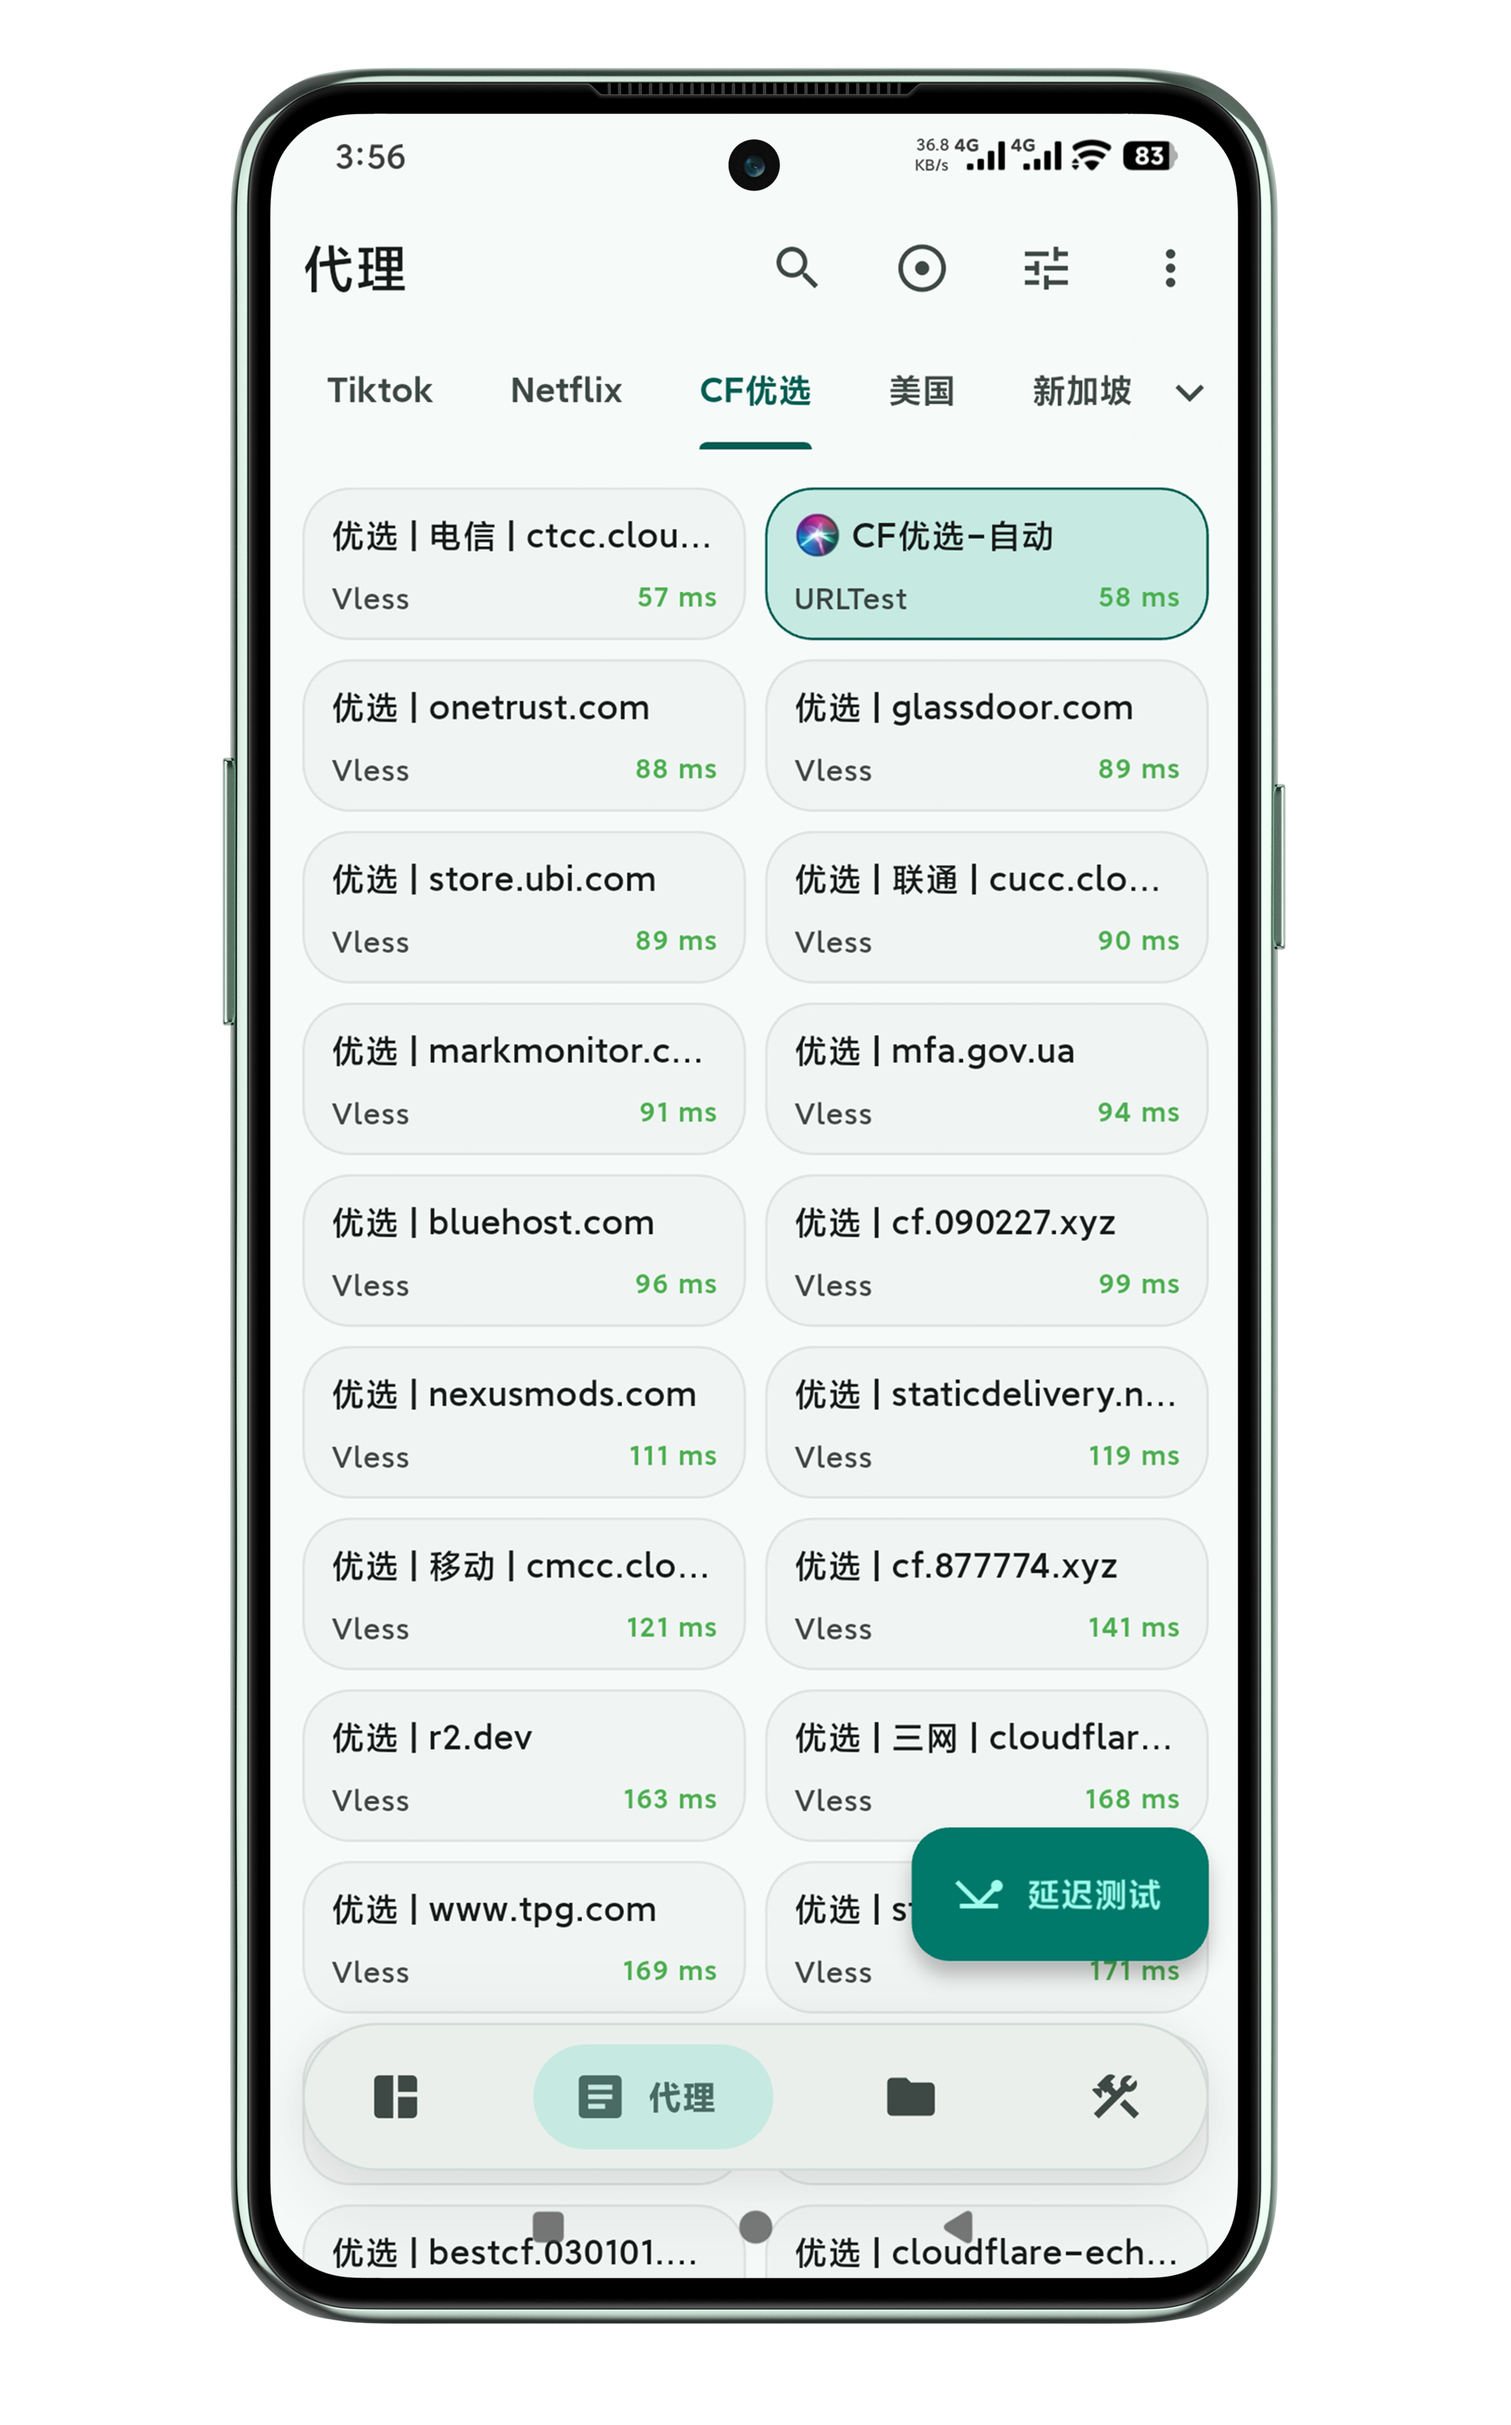
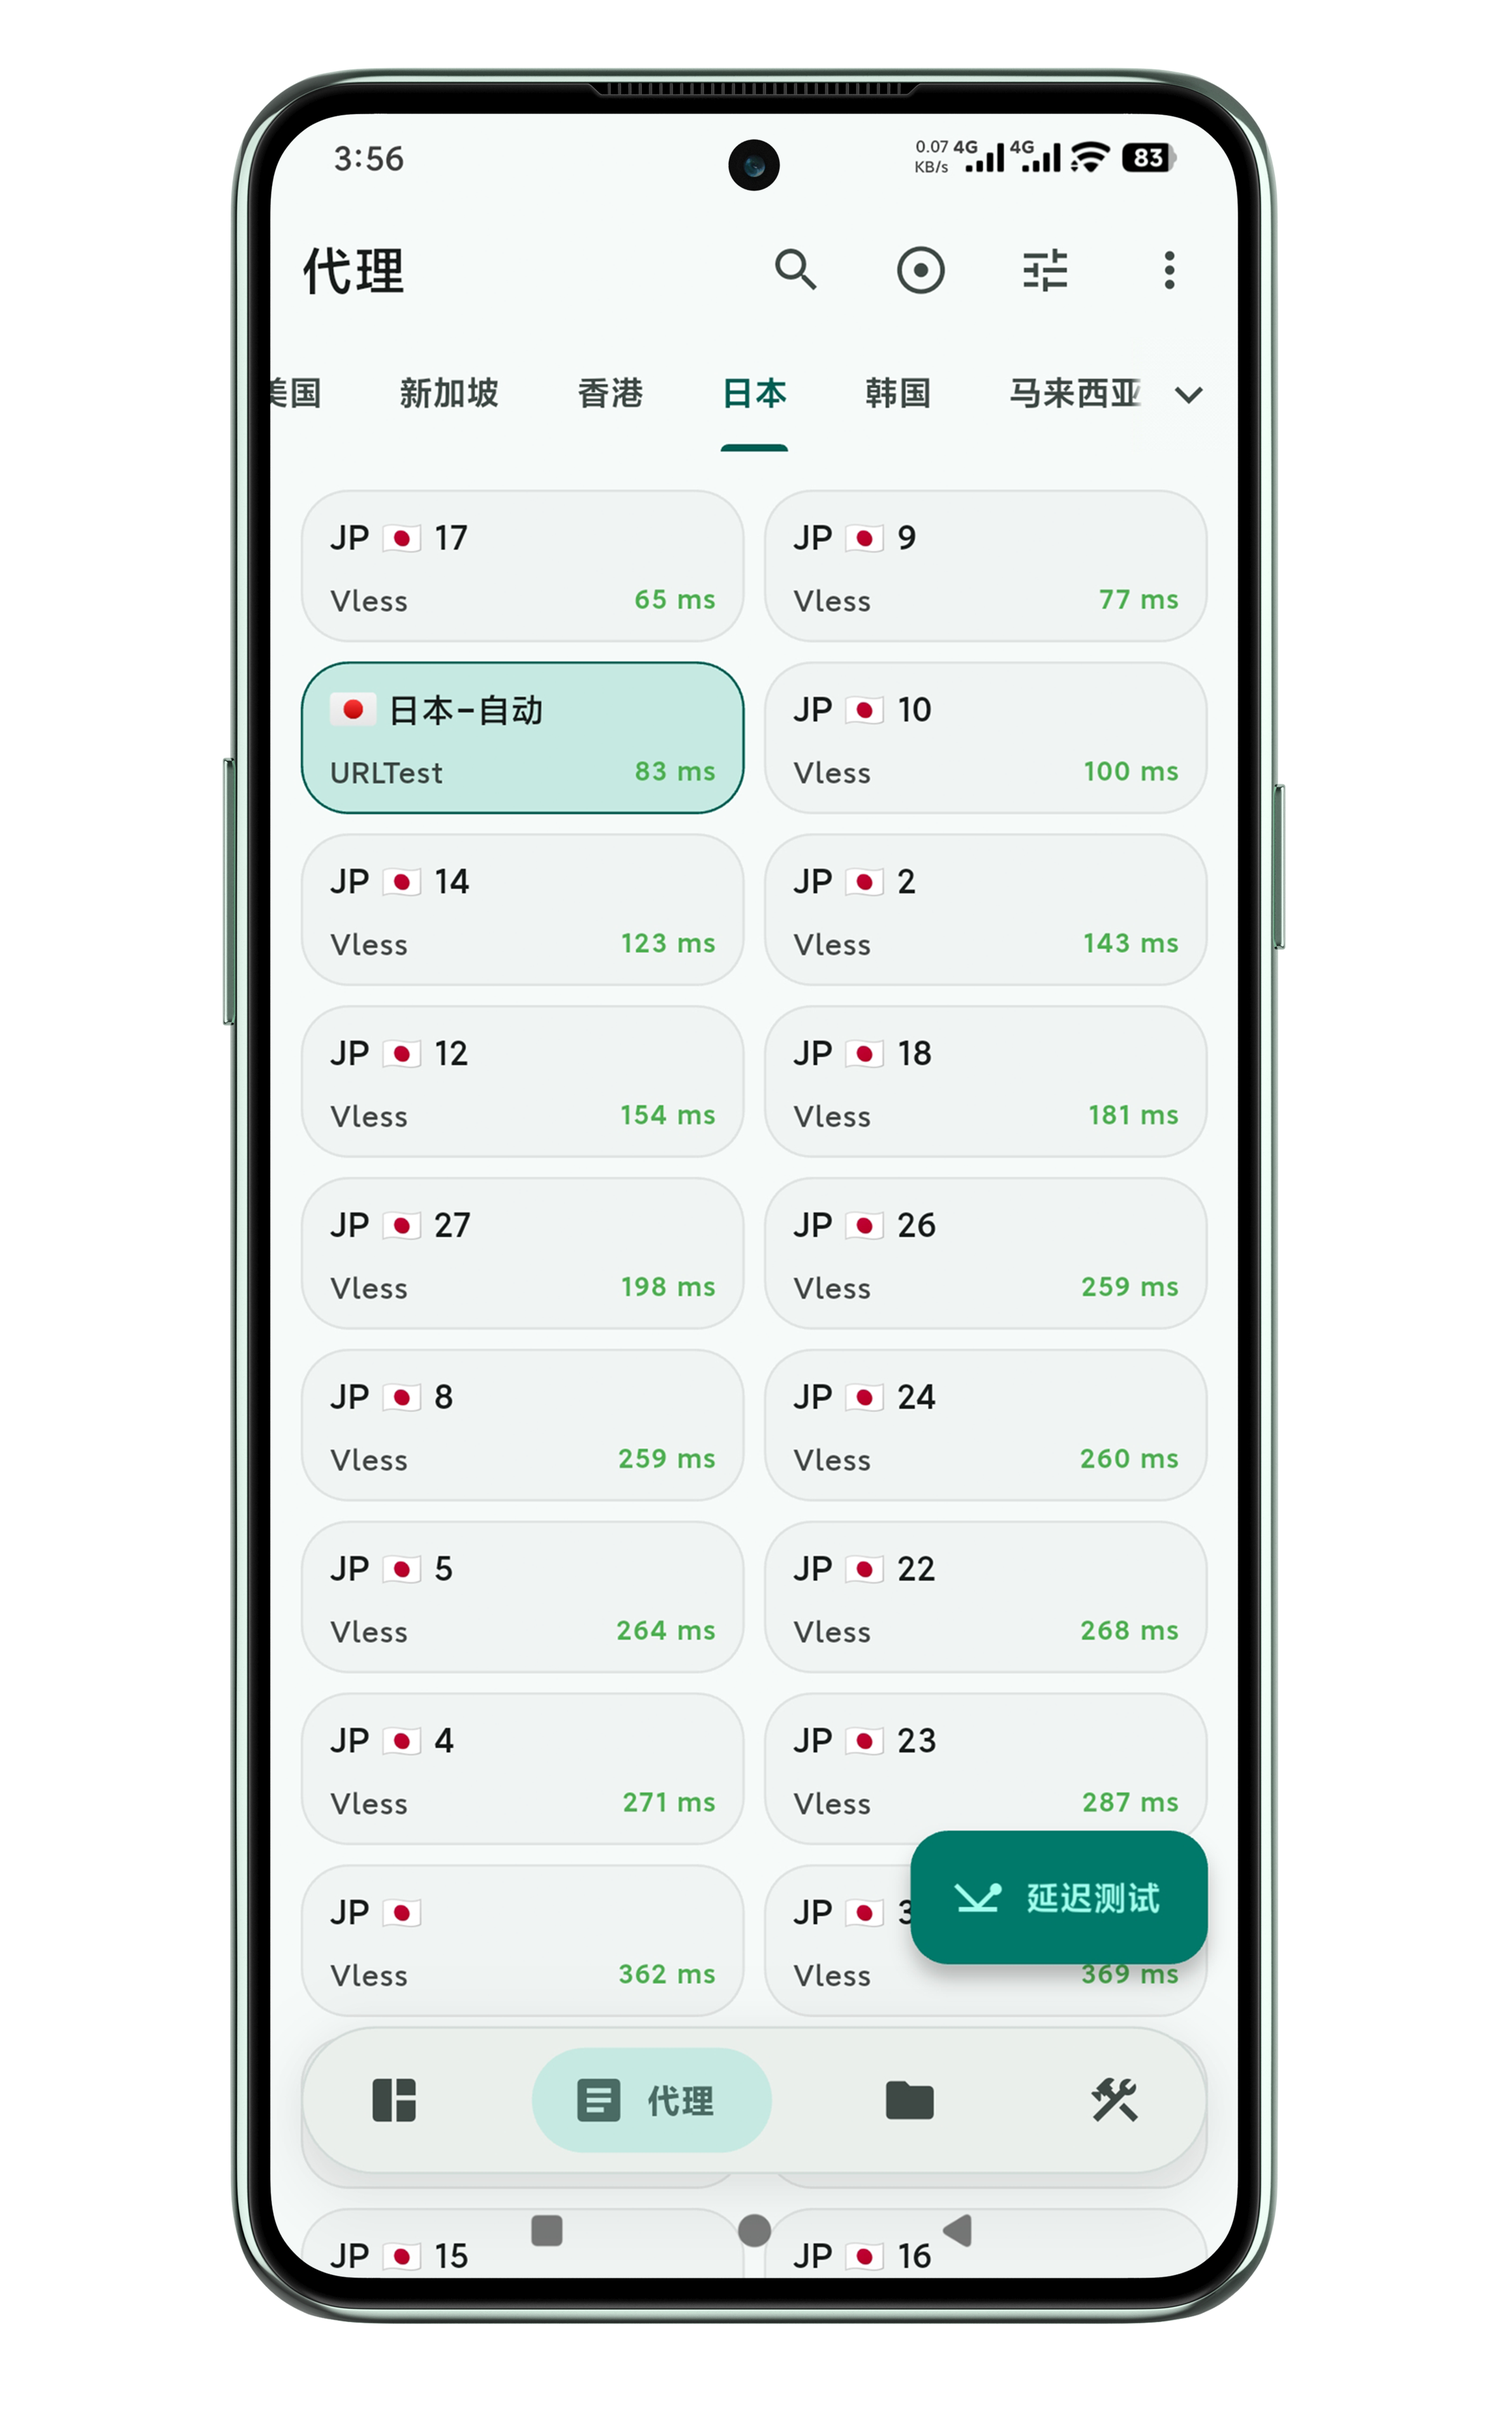
readme 更新效果图：合并 PC 截图为单张 PC.png 并更新手机截图

diff --git a/README.md b/README.md
@@ -51,7 +51,7 @@ https://raw.githubusercontent.com/LancelotRar/best-cf-ips/main/best-cf-ipv4.txt
 - 经代理客户端解析后，节点名称将显示**国家代码**以及**国旗**。点击图片查看清晰大图。
 
 <p align="center">
-  <img src="src/phone1.png" alt="效果图" width="150" height="240"><img src="src/phone2.png" alt="效果图" width="150" height="240"><img src="src/phone3.png" alt="效果图" width="150" height="240"><img src="src/PC1.png" alt="效果图" width="430" height="240">
+  <img src="src/phone1.png" alt="效果图" width="150" height="240"><img src="src/phone2.png" alt="效果图" width="150" height="240"><img src="src/phone3.png" alt="效果图" width="150" height="240"><img src="src/PC.png" alt="效果图" width="430" height="240">
 </p>
 
 ### 随机优选 API
